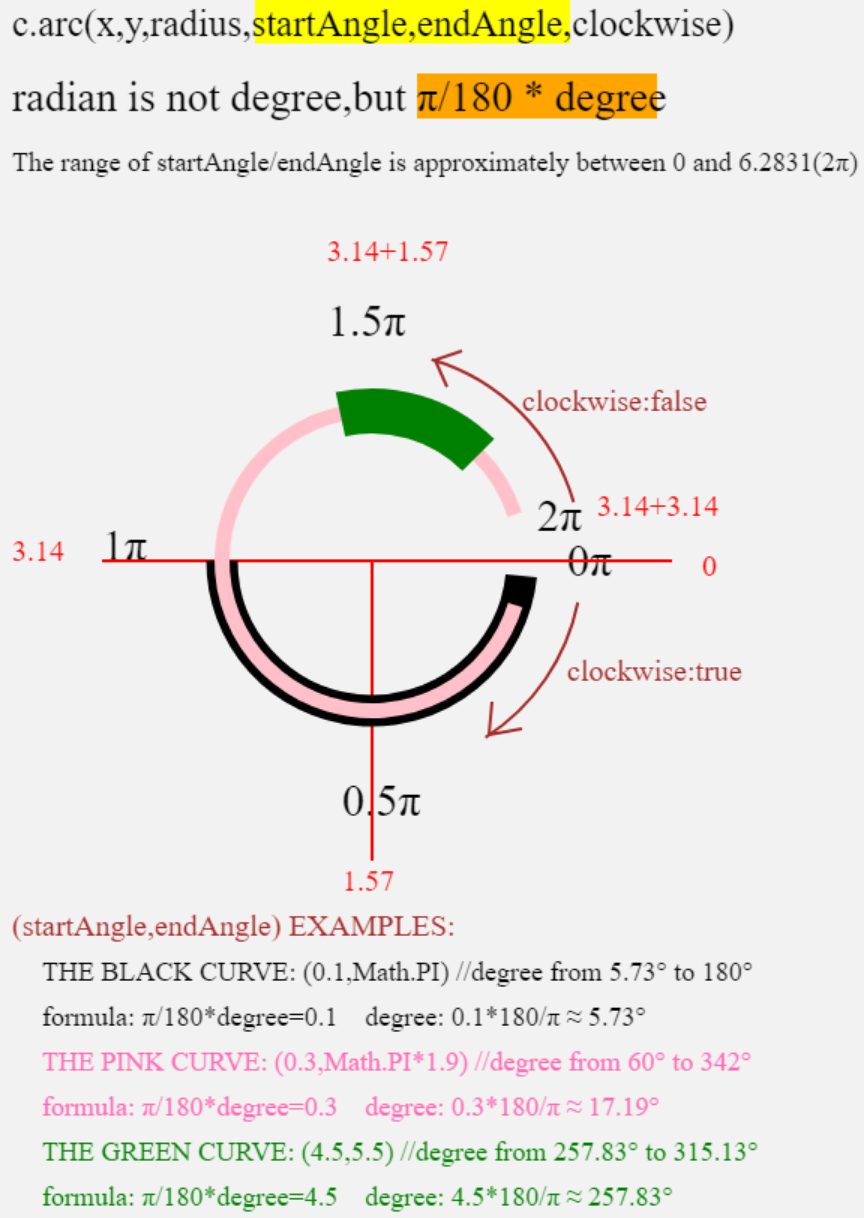
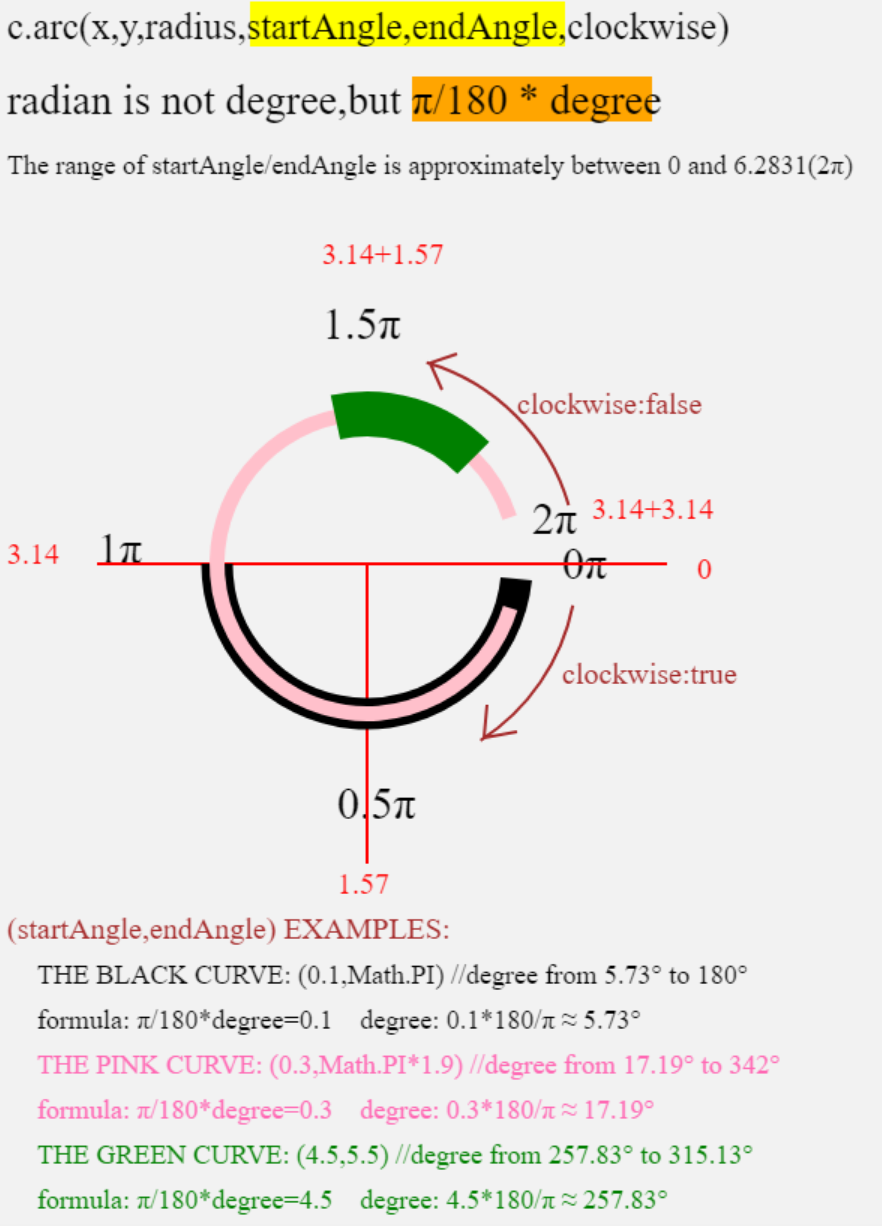
edit mistake

diff --git a/angleTest.js b/angleTest.js
@@ -133,7 +133,7 @@ c.fillStyle = 'black';
 c.fillText('THE BLACK CURVE: (0.1,Math.PI) //degree from 5.73° to 180°', 30, 680);
 c.fillText('formula: π/180*degree=0.1    degree: 0.1*180/π ≈ 5.73°', 30, 710);
 c.fillStyle = 'hotpink';
-c.fillText('THE PINK CURVE: (0.3,Math.PI*1.9) //degree from 60° to 342°', 30, 740);
+c.fillText('THE PINK CURVE: (0.3,Math.PI*1.9) //degree from 17.19° to 342°', 30, 740);
 c.fillText('formula: π/180*degree=0.3    degree: 0.3*180/π ≈ 17.19°', 30, 770);
 c.fillStyle = 'green';
 c.fillText('THE GREEN CURVE: (4.5,5.5) //degree from 257.83° to 315.13°', 30, 800);
